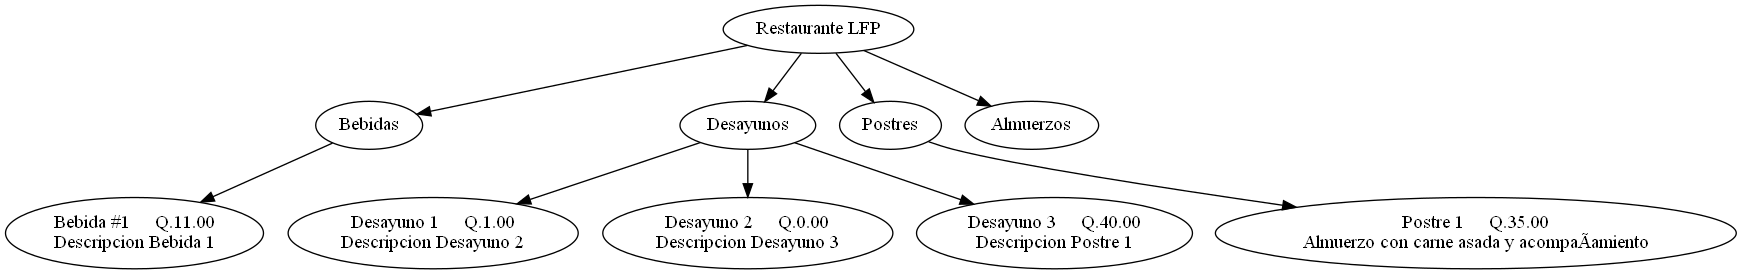
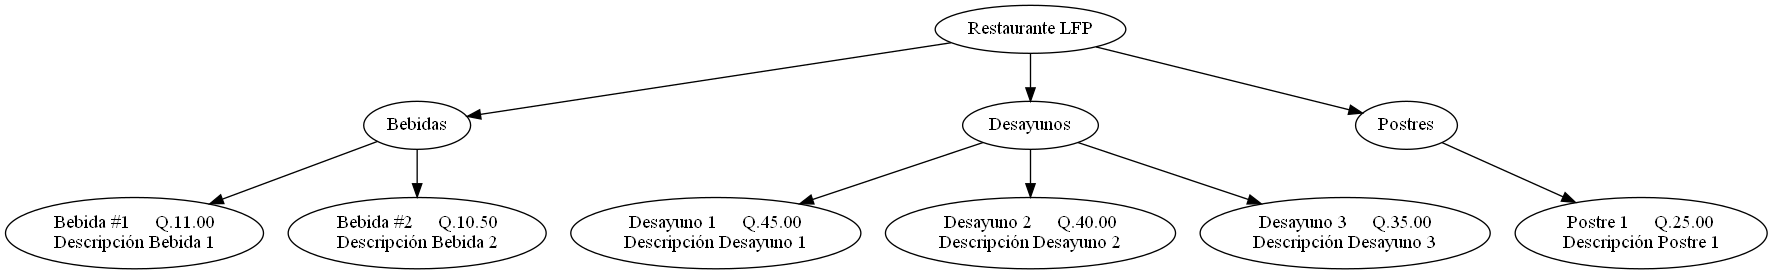
Actualizacion

diff --git a/Token.html b/Token.html
@@ -1,1 +1,1 @@
-<html><head><title>TOKENS</title><link rel="stylesheet" href="https://stackpath.bootstrapcdn.com/bootstrap/4.5.2/css/bootstrap.min.css"><link rel="icon" href="comando.png"></head><body><div class="container" style="text-align:center"><br><br><div class="jumbotron text-white bg-dark"><div class="container"><h1>Reporte de Tokens</h1><p class="lead">A continuacion se muestran los tokens reconocidos por el AFD</p></div></div><div class="table-responsive"><table class="table"><thead></tr><th class="bg-danger">NO.</th><th class="bg-light">TOKEN</th><th class="bg-info">LEXEMA</th><th class="bg-warning">FILA</th><th class="text-light bg-dark">COLUMNA</th></tr></thead><tbody><tr><td>1</td><td>TK_NOMBRE_CLIENTE</td><td>Luis Falla</td><td>1</td><td>2</td></tr><tr><td>2</td><td>TK_COMA</td><td>,</td><td>1</td><td>13</td></tr><tr><td>3</td><td>TK_NIT_CLIENTE</td><td>2332323232</td><td>1</td><td>16</td></tr><tr><td>4</td><td>TK_COMA</td><td>,</td><td>1</td><td>27</td></tr><tr><td>5</td><td>TK_DIRECCION_CLIENTE</td><td>1 av. 4-33 zona 3, Fraijanes</td><td>1</td><td>30</td></tr><tr><td>6</td><td>TK_COMA</td><td>,</td><td>1</td><td>59</td></tr><tr><td>7</td><td>TK_PROPINA</td><td>12%</td><td>1</td><td>61</td></tr><tr><td>8</td><td>TK_CANTIDAD_COMIDA</td><td>2</td><td>2</td><td>1</td></tr><tr><td>9</td><td>TK_COMA</td><td>,</td><td>2</td><td>2</td></tr><tr><td>10</td><td>TK_IDENTIFICADOR</td><td>bebida_1</td><td>2</td><td>3</td></tr><tr><td>11</td><td>TK_CANTIDAD_COMIDA</td><td>4</td><td>3</td><td>1</td></tr><tr><td>12</td><td>TK_COMA</td><td>,</td><td>3</td><td>2</td></tr><tr><td>13</td><td>TK_IDENTIFICADOR</td><td>pos_001</td><td>3</td><td>3</td></tr></tbody></table></div><br><br></div></body></html>
+<html><head><title>TOKENS</title><link rel="stylesheet" href="https://stackpath.bootstrapcdn.com/bootstrap/4.5.2/css/bootstrap.min.css"><link rel="icon" href="comando.png"></head><body><div class="container" style="text-align:center"><br><br><div class="jumbotron text-white bg-dark"><div class="container"><h1>Reporte de Tokens</h1><p class="lead">A continuacion se muestran los tokens reconocidos por el AFD</p></div></div><div class="table-responsive"><table class="table"><thead></tr><th class="bg-danger">NO.</th><th class="bg-light">TOKEN</th><th class="bg-info">LEXEMA</th><th class="bg-warning">FILA</th><th class="text-light bg-dark">COLUMNA</th></tr></thead><tbody><tr><td>1</td><td>TK_NOMBRE_CLIENTE</td><td>Luis Morales</td><td>1</td><td>2</td></tr><tr><td>2</td><td>TK_COMA</td><td>,</td><td>1</td><td>15</td></tr><tr><td>3</td><td>TK_NIT_CLIENTE</td><td>12345676</td><td>1</td><td>18</td></tr><tr><td>4</td><td>TK_COMA</td><td>,</td><td>1</td><td>27</td></tr><tr><td>5</td><td>TK_NOMBRE_CLIENTE</td><td>Guatemala</td><td>1</td><td>30</td></tr><tr><td>6</td><td>TK_COMA</td><td>,</td><td>1</td><td>41</td></tr><tr><td>7</td><td>TK_PROPINA</td><td>8.5%</td><td>1</td><td>43</td></tr><tr><td>8</td><td>TK_CANTIDAD_COMIDA</td><td>2</td><td>2</td><td>1</td></tr><tr><td>9</td><td>TK_COMA</td><td>,</td><td>2</td><td>2</td></tr><tr><td>10</td><td>TK_IDENTIFICADOR</td><td>bebida_1</td><td>2</td><td>5</td></tr><tr><td>11</td><td>TK_CANTIDAD_COMIDA</td><td>2</td><td>3</td><td>2</td></tr><tr><td>12</td><td>TK_COMA</td><td>,</td><td>3</td><td>3</td></tr><tr><td>13</td><td>TK_IDENTIFICADOR</td><td>bebida_2</td><td>3</td><td>4</td></tr><tr><td>14</td><td>TK_CANTIDAD_COMIDA</td><td>2</td><td>4</td><td>2</td></tr><tr><td>15</td><td>TK_COMA</td><td>,</td><td>4</td><td>3</td></tr><tr><td>16</td><td>TK_IDENTIFICADOR</td><td>d1</td><td>4</td><td>4</td></tr><tr><td>17</td><td>TK_CANTIDAD_COMIDA</td><td>2</td><td>5</td><td>2</td></tr><tr><td>18</td><td>TK_COMA</td><td>,</td><td>5</td><td>3</td></tr><tr><td>19</td><td>TK_IDENTIFICADOR</td><td>d3</td><td>5</td><td>4</td></tr><tr><td>20</td><td>TK_CANTIDAD_COMIDA</td><td>4</td><td>6</td><td>1</td></tr><tr><td>21</td><td>TK_COMA</td><td>,</td><td>6</td><td>2</td></tr><tr><td>22</td><td>TK_IDENTIFICADOR</td><td>pos_001</td><td>6</td><td>5</td></tr><tr><td>23</td><td>TK_NOMBRE_CLIENTE</td><td>Luis Morales</td><td>1</td><td>2</td></tr><tr><td>24</td><td>TK_COMA</td><td>,</td><td>1</td><td>15</td></tr><tr><td>25</td><td>TK_NIT_CLIENTE</td><td>12345676</td><td>1</td><td>18</td></tr><tr><td>26</td><td>TK_COMA</td><td>,</td><td>1</td><td>27</td></tr><tr><td>27</td><td>TK_DIRECCION_CLIENTE</td><td>Guatemala, zona 3</td><td>1</td><td>30</td></tr><tr><td>28</td><td>TK_COMA</td><td>,</td><td>1</td><td>49</td></tr><tr><td>29</td><td>TK_PROPINA</td><td>8.5%</td><td>1</td><td>51</td></tr><tr><td>30</td><td>TK_CANTIDAD_COMIDA</td><td>2</td><td>2</td><td>1</td></tr><tr><td>31</td><td>TK_COMA</td><td>,</td><td>2</td><td>2</td></tr><tr><td>32</td><td>TK_IDENTIFICADOR</td><td>bebida_1</td><td>2</td><td>5</td></tr><tr><td>33</td><td>TK_CANTIDAD_COMIDA</td><td>2</td><td>3</td><td>2</td></tr><tr><td>34</td><td>TK_COMA</td><td>,</td><td>3</td><td>3</td></tr><tr><td>35</td><td>TK_IDENTIFICADOR</td><td>bebida_2</td><td>3</td><td>4</td></tr><tr><td>36</td><td>TK_CANTIDAD_COMIDA</td><td>2</td><td>4</td><td>2</td></tr><tr><td>37</td><td>TK_COMA</td><td>,</td><td>4</td><td>3</td></tr><tr><td>38</td><td>TK_IDENTIFICADOR</td><td>d1</td><td>4</td><td>4</td></tr><tr><td>39</td><td>TK_CANTIDAD_COMIDA</td><td>2</td><td>5</td><td>2</td></tr><tr><td>40</td><td>TK_COMA</td><td>,</td><td>5</td><td>3</td></tr><tr><td>41</td><td>TK_IDENTIFICADOR</td><td>d3</td><td>5</td><td>4</td></tr><tr><td>42</td><td>TK_CANTIDAD_COMIDA</td><td>4</td><td>6</td><td>1</td></tr><tr><td>43</td><td>TK_COMA</td><td>,</td><td>6</td><td>2</td></tr><tr><td>44</td><td>TK_IDENTIFICADOR</td><td>pos_001</td><td>6</td><td>5</td></tr></tbody></table></div><br><br></div></body></html>

diff --git a/Error.html b/Error.html
@@ -1,1 +1,1 @@
-<html><head><title>ERRORES</title><link rel="stylesheet" href="https://stackpath.bootstrapcdn.com/bootstrap/4.5.2/css/bootstrap.min.css"><link rel="icon" href="comando.png"></head><body><div class="container" style="text-align:center"><br><br><div class="jumbotron text-light bg-dark"><div class="container"><h1>Reporte de Errores</h1><p class="lead">A continuacion se muestran los errores reconocidos por el AFD</p></div></div><table class="table"><thead></tr><th class="bg-danger">NO.</th><th class="bg-light">FILA</th><th class="bg-info">COLUMNA</th><th class="bg-warning">CARACTER</th><th class="text-light bg-dark">DESCRIPCION</th></tr></thead><tbody><tr><td>1</td><td>5</td><td>51</td><td>a</td><td>Simbolo desconocido</td></tr></tbody></table><br><br></div></body></html>
+<html><head><title>ERRORES</title><link rel="stylesheet" href="https://stackpath.bootstrapcdn.com/bootstrap/4.5.2/css/bootstrap.min.css"><link rel="icon" href="comando.png"></head><body><div class="container" style="text-align:center"><br><br><div class="jumbotron text-light bg-dark"><div class="container"><h1>Reporte de Errores</h1><p class="lead">A continuacion se muestran los errores reconocidos por el AFD</p></div></div><table class="table"><thead></tr><th class="bg-danger">NO.</th><th class="bg-light">FILA</th><th class="bg-info">COLUMNA</th><th class="bg-warning">CARACTER</th><th class="text-light bg-dark">DESCRIPCION</th></tr></thead><tbody><tr><td>1</td><td>1</td><td>13</td><td>?</td><td>Simbolo desconocido</td></tr><tr><td>2</td><td>1</td><td>14</td><td>?</td><td>Simbolo desconocido</td></tr><tr><td>3</td><td>1</td><td>18</td><td>?</td><td>Simbolo desconocido</td></tr><tr><td>4</td><td>1</td><td>19</td><td>?</td><td>Simbolo desconocido</td></tr><tr><td>5</td><td>5</td><td>2</td><td>dedo 1</td><td>Identificador no valido</td></tr><tr><td>6</td><td>5</td><td>52</td><td>/</td><td>Simbolo desconocido</td></tr><tr><td>7</td><td>6</td><td>2</td><td>d 2</td><td>Identificador no valido</td></tr></tbody></table><br><br></div></body></html>

diff --git a/Main.py b/Main.py
@@ -232,6 +232,7 @@ def AFD():
                 v.estado = 2
             elif elemento == "#":
                 print("Archivo analizado")
+                break
             else:
                 v.cadena += elemento
                 v.columna += 1
@@ -316,7 +317,7 @@ def AFD():
             elif elemento == "]":
                 v.columna -= 1
                 Guardar_Token("desc")
-                v.columna += 1
+                #v.columna += 1
                 v.cadena += elemento
                 #v.columna += 2
                 Guardar_Token("corch_ce")
@@ -343,12 +344,14 @@ def AFD():
                     Guardar_Token("coma")
             elif elemento == " ":
                 v.columna += 1
+                v.cantidad += 1
                 v.estado = 3
             elif elemento == "\n":
                 v.columna -= 1
                 Guardar_Token("nombre_res")
                 v.fila += 1
                 v.columna = 1
+                v.estado = 0
             else:
                 v.cadena = ""
                 v.cadena += elemento
@@ -386,12 +389,11 @@ def AFD():
                     Guardar_Token("punto_coma")
             elif elemento == " ":
                 if v.cadena == "":
+                    v.columna += 1
                     v.estado = 4
                 else:
                     v.columna += 1
-                    v.cantidad += 1
-                    v.cadena += elemento
-                    Guardar_Error("id_inv")
+                    v.estado = 7
             else:
                 v.cadena += ""
                 v.cadena += elemento
@@ -430,9 +432,10 @@ def AFD():
                 v.estado = 6
             else:
                 v.columna += 1
-                v.cadena = ""
+                #v.cadena = ""
                 v.cadena += elemento
-                Guardar_Error("")
+                v.cantidad += 1
+                Guardar_Error("num_inc")
         elif v.estado == 6:
             if elemento.isdigit():
                 v.columna += 1
@@ -456,7 +459,26 @@ def AFD():
                 Guardar_Token("precio")
                 v.columna += 1
                 v.estado = 0
-
+        elif v.estado == 7:
+            if elemento == " ":
+                v.columna -= 1
+                Guardar_Token("id")
+                v.columna += 2
+                v.estado = 0
+            elif elemento == ";":
+                v.columna -= 1
+                Guardar_Token("id")
+                v.columna += 2
+                v.cantidad = 1
+                v.cadena += elemento
+                Guardar_Token("punto_coma")
+            else:
+                v.columna += 1
+                v.cantidad += 2
+                #v.cadena = ""
+                v.cadena += " "
+                v.cadena += elemento
+                Guardar_Error("id_inv")
        
 def AFD_FACTURA():
     v.entrada = v.entrada + "#"
@@ -530,6 +552,10 @@ def AFD_FACTURA():
                 elif v.cadena.replace("-","").isdigit():
                     v.columna -= 1
                     Guardar_Token("nit")
+                    v.columna += 1
+                elif v.cadena.isalpha():
+                    v.columna -= 1
+                    Guardar_Token("dir")
                     v.columna += 1
                 else:
                     v.columna -= 1
@@ -625,7 +651,6 @@ def Guardar_Error(tipo):
     v.cadena = ""
     v.estado = 0
     
-
 def Mostrar_Token_Menu():
     for i in v.Lista_Token:
         print(i)
@@ -901,7 +926,6 @@ def Retornar_Valores_Factura():
         if "TK_IDENTIFICADOR" == i[0]:
             v.Identificadores_factura.append(i[1])
     
-
 def Mostrar_Factura():
 
     today = date.today()
@@ -1020,7 +1044,9 @@ def Mostrar_Factura():
     for i in valor_propina:
         if i.isdigit():
             valor_propina_sin_porcentaje += i
-    total_propina = (int(valor_propina_sin_porcentaje)/100)*valor_total
+        elif i == ".":
+            valor_propina_sin_porcentaje += i
+    total_propina = (float(valor_propina_sin_porcentaje)/100)*valor_total
     cadena_propina = '<td>Q'+ str(f"{total_propina:.2f}") +'</td>'
     filew.write(str(cadena_propina))
     filew.write('</tr>')

diff --git a/prueba.py b/prueba.py
@@ -35,6 +35,10 @@ today = date.today()
 
 now = datetime.now()
 
+cadena_para_probar_dir = "Guatemala"
+print(cadena_cliente.replace(" ","1").isalnum())
+print(cadena_para_probar_dir.isalpha())
+
 #print(str(today.day)+str("/")+str(today.month)+str("/")+str(today.year))
 
 
@@ -81,7 +85,7 @@ def factura():
     except:
         print()
         
-factura()    
+#factura()    
 
 
 
@@ -284,6 +288,6 @@ def Mostrar_Factura():
 
     webbrowser.open_new_tab("factura.html")  
 
-Mostrar_Factura()
+#Mostrar_Factura()
 
 #print(chr(39))

diff --git a/Token.py b/Token.py
@@ -101,6 +101,8 @@ class Error:
     def Retornar_Error(self):
         if self.tipo == "id_inv":
             return self.fila, self.columna, self.caracter, "Identificador no valido"
+        elif self.tipo == "num_inc":
+            return self.fila, self.columna, self.caracter, "Numero incorrecto"
         elif self.tipo == "":
             return self.fila, self.columna, self.caracter, "Simbolo desconocido"
        
